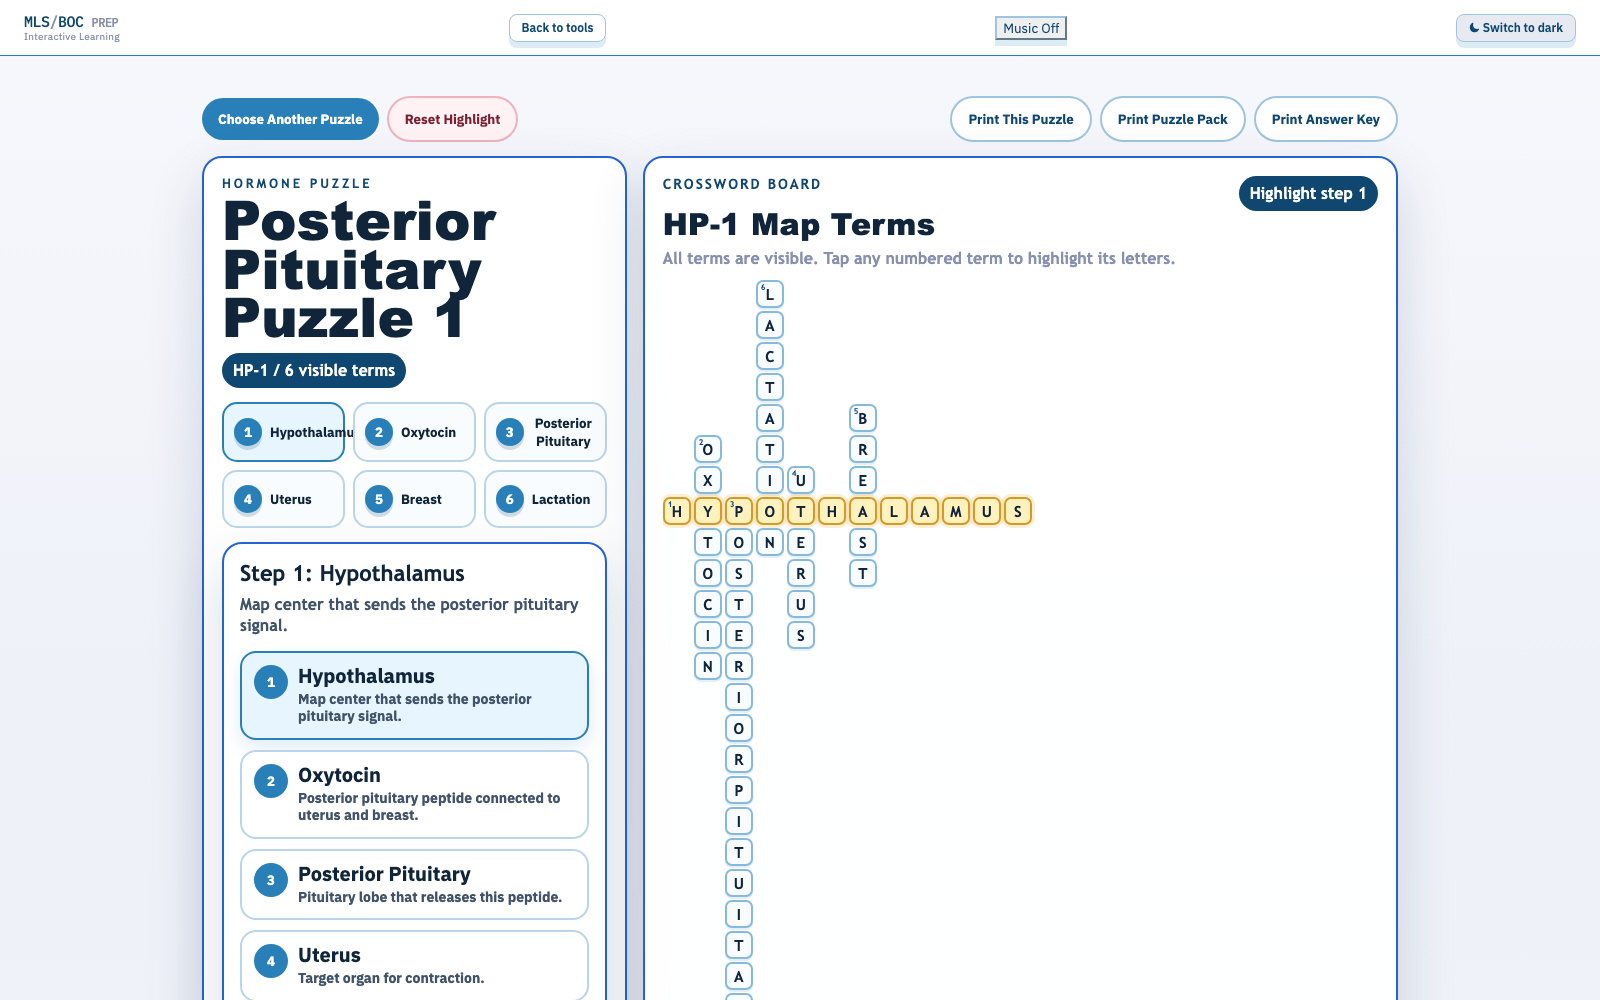
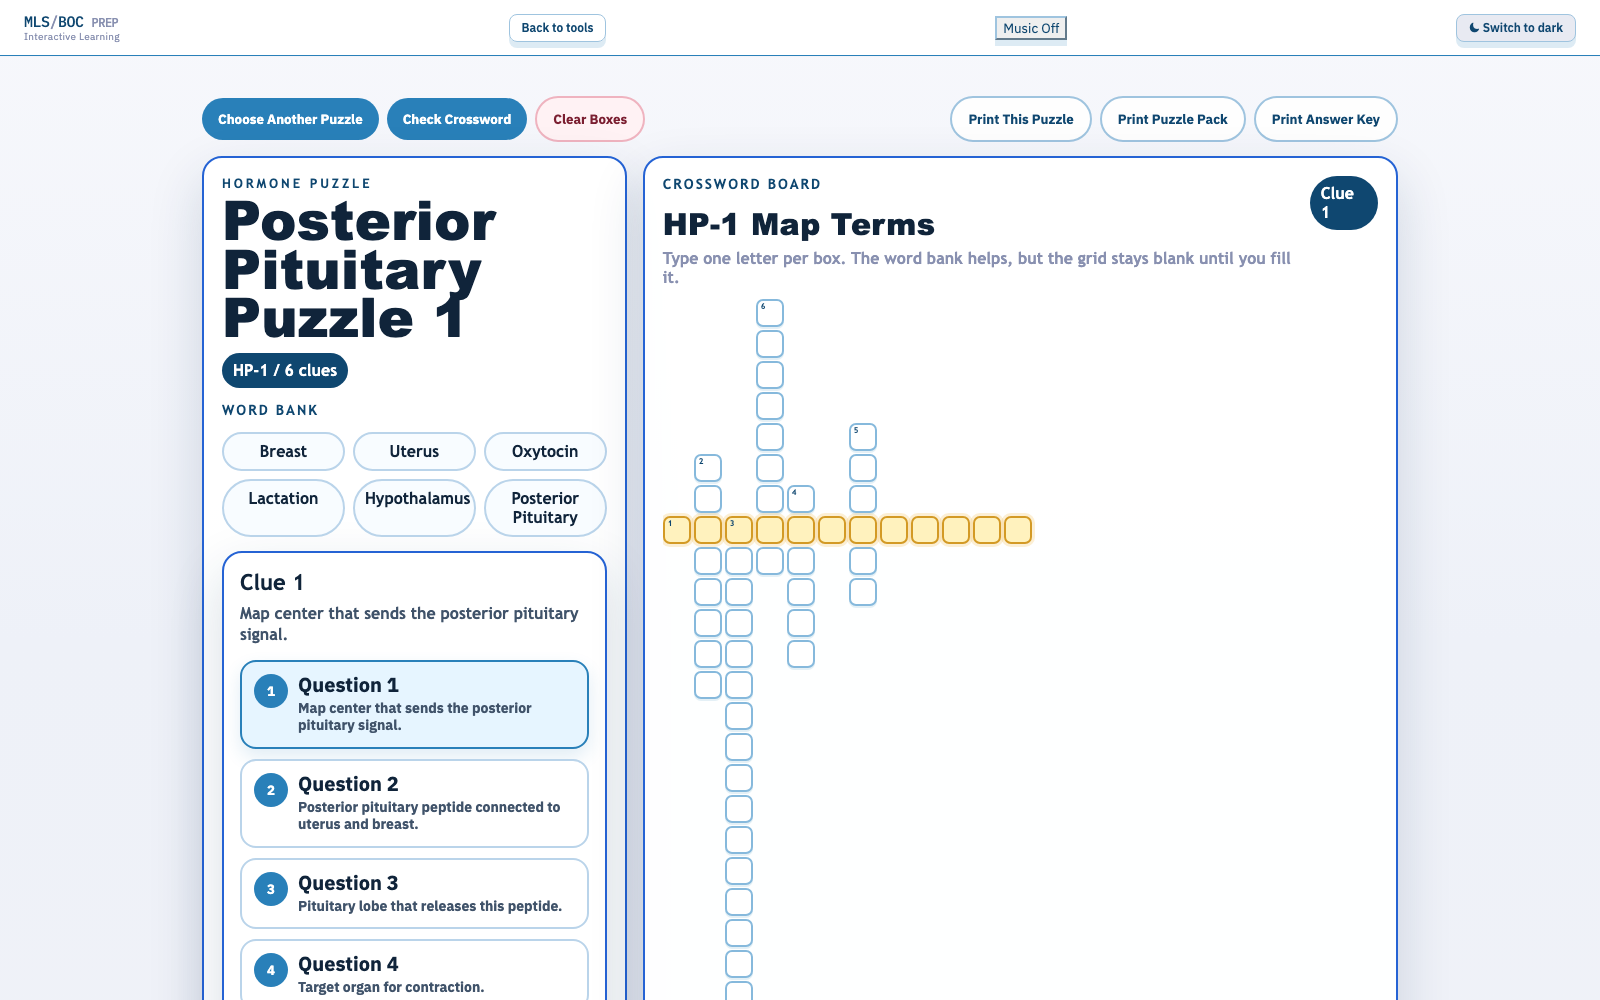
Make hormone crosswords type-in puzzles

diff --git a/Hormone_Game.html b/Hormone_Game.html
@@ -234,36 +234,21 @@ body.hormone-game .mls-audio-btn{
   color:#fff;
   font-weight:1000;
 }
-.pathway-strip{
+.word-bank{
   display:grid;
-  grid-template-columns:repeat(auto-fit,minmax(120px,1fr));
+  grid-template-columns:repeat(auto-fit,minmax(92px,1fr));
   gap:8px;
   margin-top:14px;
 }
-.pathway-step{
+.word-bank-term{
   border:2px solid #bad4ea;
-  border-radius:15px;
+  border-radius:999px;
   background:#f8fcff;
-  padding:10px;
+  padding:8px 10px;
   color:#10243a;
   font-weight:1000;
-  min-height:58px;
-  display:flex;
-  align-items:center;
-  gap:8px;
+  text-align:center;
 }
-.pathway-step strong{
-  width:28px;
-  height:28px;
-  border-radius:50%;
-  display:grid;
-  place-items:center;
-  flex:0 0 auto;
-  color:#fff;
-  background:var(--chem);
-  box-shadow:0 4px 0 rgba(15,71,112,.18);
-}
-.pathway-step.active{border-color:var(--chem);background:#e7f5ff}
 .step-pills{
   display:grid;
   grid-template-columns:repeat(auto-fit,minmax(38px,1fr));
@@ -399,6 +384,7 @@ body.hormone-game .mls-audio-btn{
 }
 .cell.solved{background:#f8fcff;border-color:#86b9dc}
 .cell.active{background:#fff2be;border-color:#d39a25;box-shadow:0 0 0 3px rgba(244,189,79,.24)}
+.cell.wrong{background:#fff1f3;border-color:#d64d5f}
 .cell-number{
   position:absolute;
   top:1px;
@@ -408,6 +394,18 @@ body.hormone-game .mls-audio-btn{
   line-height:1;
 }
 .cell-letter{font-size:15px;line-height:1}
+.cell-input{
+  width:100%;
+  height:100%;
+  border:0;
+  background:transparent;
+  color:#10243a;
+  font:1000 15px/1 "Trebuchet MS",Arial,Helvetica,sans-serif;
+  text-align:center;
+  text-transform:uppercase;
+  outline:0;
+  padding:0;
+}
 .mini-map{
   margin-top:14px;
   display:grid;
@@ -442,6 +440,7 @@ body.hormone-game .mls-audio-btn{
   .answer-row{grid-template-columns:1fr}
   .cell{width:24px;height:24px;border-radius:6px}
   .cell-letter{font-size:13px}
+  .cell-input{font-size:13px}
 }
 html[data-mls-theme="dark"] body.hormone-game{
   background:
@@ -508,7 +507,10 @@ html[data-mls-theme="dark"] body.hormone-game .feedback{
     font-weight:900;
   }
   .print-cell.empty{border-color:transparent}
+  .print-cell.filled{background:#fff}
   .print-cell-number{position:absolute;top:0;left:.02in;font-size:5pt}
+  .print-word-bank{border:1px solid #000;padding:.06in;margin:.08in 0;font-size:9pt;color:#000!important}
+  .print-word-bank strong{display:block;margin-bottom:.03in}
   .print-ordered{width:100%;border-collapse:collapse;font-size:8.5pt;margin-top:.08in}
   .print-ordered th,.print-ordered td{border:1px solid #000;padding:.04in;color:#000!important;vertical-align:top}
   .print-ordered th{font-weight:900}
@@ -696,6 +698,8 @@ let activePuzzleId = scene === "puzzle" ? puzzles[0].id : "";
 let activeEntryIndex = 0;
 let feedback = "Choose a hormone crossword.";
 let feedbackType = "";
+let typedCells = {};
+let checkedPuzzleId = "";
 
 function normalize(value){
   return String(value).replace(/[^a-zA-Z0-9]/g,"").toUpperCase();
@@ -709,6 +713,18 @@ function currentPuzzle(){
   return puzzles.find(puzzle => puzzle.id === activePuzzleId) || puzzles[0];
 }
 
+function typedMap(puzzleId){
+  if(!typedCells[puzzleId])typedCells[puzzleId] = {};
+  return typedCells[puzzleId];
+}
+
+function shuffleTerms(entries){
+  return [...entries]
+    .map((entry, index) => ({entry, sortKey:normalize(entry.term).split("").reduce((sum, ch) => sum + ch.charCodeAt(0), 0) + index * 17}))
+    .sort((a,b) => a.sortKey - b.sortKey)
+    .map(item => item.entry);
+}
+
 function enterHall(){
   scene = "hall";
   feedback = "Choose one crossword line from the hormone map.";
@@ -720,7 +736,8 @@ function openPuzzle(id){
   activePuzzleId = id;
   scene = "puzzle";
   activeEntryIndex = 0;
-  feedback = "Everything is visible. Tap any numbered term to highlight it on the crossword.";
+  checkedPuzzleId = "";
+  feedback = "Use the clue questions and word bank, then type letters into the crossword boxes.";
   feedbackType = "";
   render();
 }
@@ -733,8 +750,10 @@ function backToHall(){
 
 function clearPuzzle(){
   if(!activePuzzleId)return;
+  typedCells[activePuzzleId] = {};
   activeEntryIndex = 0;
-  feedback = "Highlight reset to step 1.";
+  checkedPuzzleId = "";
+  feedback = "Crossword cleared. Type answers into the numbered boxes.";
   feedbackType = "";
   render();
 }
@@ -742,9 +761,57 @@ function clearPuzzle(){
 function selectEntry(index){
   const puzzle = currentPuzzle();
   activeEntryIndex = Math.max(0, Math.min(index, puzzle.entries.length - 1));
-  const entry = puzzle.entries[activeEntryIndex];
-  feedback = `Step ${activeEntryIndex + 1} highlighted: ${entry.term}.`;
+  feedback = `Clue ${activeEntryIndex + 1} highlighted on the crossword.`;
   feedbackType = "";
+  render();
+}
+
+function handleCellInput(event){
+  const input = event.target;
+  const puzzleId = input.dataset.puzzle;
+  const cellId = input.dataset.cell;
+  const value = normalize(input.value).slice(-1);
+  input.value = value;
+  typedMap(puzzleId)[cellId] = value;
+  checkedPuzzleId = "";
+  input.closest(".cell")?.classList.remove("wrong");
+  if(value)focusNextCell(input);
+}
+
+function focusNextCell(input){
+  const cells = [...document.querySelectorAll(".cell-input")];
+  const index = cells.indexOf(input);
+  const next = cells[index + 1];
+  if(next)next.focus();
+}
+
+function handleCellKey(event){
+  if(event.key === "Backspace" && !event.target.value){
+    const cells = [...document.querySelectorAll(".cell-input")];
+    const index = cells.indexOf(event.target);
+    const previous = cells[index - 1];
+    if(previous)previous.focus();
+  }
+}
+
+function checkCrossword(){
+  const puzzle = currentPuzzle();
+  const crossword = makeCrossword(puzzle.entries);
+  const typed = typedMap(puzzle.id);
+  let total = 0;
+  let correct = 0;
+  crossword.cells.forEach((cell, id) => {
+    total++;
+    if((typed[id] || "") === cell.letter)correct++;
+  });
+  checkedPuzzleId = puzzle.id;
+  if(correct === total){
+    feedback = `Crossword complete. Output unlocked: ${puzzle.output}.`;
+    feedbackType = "good";
+  }else{
+    feedback = `${correct}/${total} boxes correct. Fix the highlighted boxes and check again.`;
+    feedbackType = "bad";
+  }
   render();
 }
 
@@ -837,7 +904,7 @@ function renderHero(){
     <div class="hero-panel">
       <div class="eyebrow">Welcome to the endocrine arcade</div>
       <h1 class="game-font">Hormone Crosswords</h1>
-      <p class="hero-copy">Choose one hormone-map line and study its numbered crossword. Every term is visible, so you can build the pathway in any order.</p>
+      <p class="hero-copy">Choose one hormone-map line, use the word bank, and type the missing terms into a real crossword puzzle.</p>
       <button class="game-btn enter-btn" type="button" onclick="enterHall()">Enter the Hormone Puzzle Hall!</button>
     </div>
   </section>`;
@@ -848,7 +915,7 @@ function renderHall(){
     <div class="hero-panel">
       <div class="eyebrow">Choose your hormone puzzle</div>
       <h1 class="game-font">Puzzle Hall</h1>
-      <p class="hero-copy">Each card is one line from the hormone diagram. Pick one, read the numbered pathway, and use the crossword as the visual map.</p>
+      <p class="hero-copy">Each card is one line from the hormone diagram. Pick a puzzle, read the clues, and fill the crossword boxes.</p>
     </div>
   </section>
   <section class="puzzle-grid">
@@ -869,7 +936,8 @@ function renderToolbar(){
   return `<div class="toolbar">
     <div class="toolbar-left">
       <button class="game-btn primary-btn" type="button" onclick="backToHall()">Choose Another Puzzle</button>
-      <button class="game-btn danger-btn" type="button" onclick="clearPuzzle()">Reset Highlight</button>
+      <button class="game-btn primary-btn" type="button" onclick="checkCrossword()">Check Crossword</button>
+      <button class="game-btn danger-btn" type="button" onclick="clearPuzzle()">Clear Boxes</button>
     </div>
     <div class="toolbar-right">
       <button class="game-btn print-btn" type="button" onclick="printCurrentPuzzle()">Print This Puzzle</button>
@@ -879,32 +947,44 @@ function renderToolbar(){
   </div>`;
 }
 
+function isCrosswordComplete(puzzle){
+  const crossword = makeCrossword(puzzle.entries);
+  const typed = typedMap(puzzle.id);
+  let complete = true;
+  crossword.cells.forEach((cell, id) => {
+    if((typed[id] || "") !== cell.letter)complete = false;
+  });
+  return complete;
+}
+
 function renderPuzzleInfo(puzzle){
   const current = Math.max(0, Math.min(activeEntryIndex, puzzle.entries.length - 1));
   const entry = puzzle.entries[current];
+  const complete = isCrosswordComplete(puzzle);
   return `<section class="panel">
     <div class="eyebrow">Hormone puzzle</div>
     <h1 class="game-font puzzle-title">${esc(puzzle.title)}</h1>
-    <span class="map-line">${esc(puzzle.code)} / ${puzzle.entries.length} visible terms</span>
-    <div class="pathway-strip">
-      ${puzzle.entries.map((entryItem, index) => `<button class="pathway-step ${index === current ? "active" : ""}" type="button" onclick="selectEntry(${index})"><strong>${index + 1}</strong><span>${esc(entryItem.term)}</span></button>`).join("")}
+    <span class="map-line">${esc(puzzle.code)} / ${puzzle.entries.length} clues</span>
+    <div class="panel-title" style="margin-top:14px">Word Bank</div>
+    <div class="word-bank">
+      ${shuffleTerms(puzzle.entries).map(entryItem => `<span class="word-bank-term">${esc(entryItem.term)}</span>`).join("")}
     </div>
     <div class="clue-card">
-      <h3>Step ${current + 1}: ${esc(entry.term)}</h3>
+      <h3>Clue ${current + 1}</h3>
       <p>${esc(entry.clue)}</p>
       <div class="ordered-clues">
         ${puzzle.entries.map((entryItem, index) => `<button class="term-step ${index === current ? "active" : ""}" type="button" onclick="selectEntry(${index})">
           <span class="term-step-number">${index + 1}</span>
           <span>
-            <span class="term-step-name">${esc(entryItem.term)}</span>
+            <span class="term-step-name">Question ${index + 1}</span>
             <span class="term-step-clue">${esc(entryItem.clue)}</span>
           </span>
         </button>`).join("")}
       </div>
     </div>
     <div class="feedback ${feedbackType}">${esc(feedback)}</div>
-    <div class="output-card visible">
-      <h3>Output</h3>
+    <div class="output-card ${complete ? "visible" : ""}">
+      <h3>Output Unlocked</h3>
       <p>${esc(puzzle.output)}</p>
     </div>
   </section>`;
@@ -913,28 +993,33 @@ function renderPuzzleInfo(puzzle){
 function renderCrossword(puzzle){
   const crossword = makeCrossword(puzzle.entries);
   const current = Math.max(0, Math.min(activeEntryIndex, puzzle.entries.length - 1));
+  const typed = typedMap(puzzle.id);
+  const showWrong = checkedPuzzleId === puzzle.id && feedbackType === "bad";
   return `<section class="crossword-shell">
     <div class="crossword-head">
       <div>
         <div class="panel-title">Crossword Board</div>
         <h2 class="game-font">${esc(puzzle.code)} Map Terms</h2>
-        <p>All terms are visible. Tap any numbered term to highlight its letters.</p>
+        <p>Type one letter per box. The word bank helps, but the grid stays blank until you fill it.</p>
       </div>
-      <span class="map-line">Highlight step ${current + 1}</span>
+      <span class="map-line">Clue ${current + 1}</span>
     </div>
     <div class="crossword-board-wrap">
       <div class="crossword-board" style="grid-template-columns:repeat(${crossword.cols},28px)">
         ${Array.from({length:crossword.rows * crossword.cols}, (_, rawIndex) => {
           const r = Math.floor(rawIndex / crossword.cols);
           const c = rawIndex % crossword.cols;
-          const cell = crossword.cells.get(`${r},${c}`);
+          const id = `${r},${c}`;
+          const cell = crossword.cells.get(id);
           if(!cell)return `<div class="cell empty" aria-hidden="true"></div>`;
           const cellActive = current !== -1 && cell.entries.includes(current);
           const number = cell.starts.length ? cell.starts[0] : "";
-          return `<div class="cell solved ${cellActive ? "active" : ""}">
+          const value = typed[id] || "";
+          const wrong = showWrong && value && value !== cell.letter;
+          return `<label class="cell ${cellActive ? "active" : ""} ${wrong ? "wrong" : ""}">
             ${number ? `<span class="cell-number">${number}</span>` : ""}
-            <span class="cell-letter">${esc(cell.letter)}</span>
-          </div>`;
+            <input class="cell-input" value="${esc(value)}" maxlength="1" inputmode="text" autocomplete="off" spellcheck="false" data-puzzle="${esc(puzzle.id)}" data-cell="${esc(id)}" oninput="handleCellInput(event)" onkeydown="handleCellKey(event)" aria-label="Crossword box${number ? " " + number : ""}">
+          </label>`;
         }).join("")}
       </div>
     </div>
@@ -954,8 +1039,8 @@ function printCard(puzzle){
   return `<article class="print-card">
     <h3>${esc(puzzle.code)}</h3>
     <h2>${esc(puzzle.title)}</h2>
-    <p><strong>Output:</strong> ${esc(puzzle.output)}</p>
-    <ul>${puzzle.entries.map((entry, index) => `<li><strong>${index + 1}. ${esc(entry.term)}:</strong> ${esc(entry.clue)}</li>`).join("")}</ul>
+    <p><strong>Word bank:</strong> ${esc(shuffleTerms(puzzle.entries).map(entry => entry.term).join(" / "))}</p>
+    <ul>${puzzle.entries.map((entry, index) => `<li><strong>${index + 1}.</strong> ${esc(entry.clue)}</li>`).join("")}</ul>
   </article>`;
 }
 
@@ -990,7 +1075,7 @@ function renderPrintCrossword(puzzle){
       const cell = crossword.cells.get(`${r},${c}`);
       if(!cell)return `<div class="print-cell empty"></div>`;
       const number = cell.starts.length ? cell.starts[0] : "";
-      return `<div class="print-cell">${number ? `<span class="print-cell-number">${number}</span>` : ""}${esc(cell.letter)}</div>`;
+      return `<div class="print-cell filled">${number ? `<span class="print-cell-number">${number}</span>` : ""}</div>`;
     }).join("")}
   </div>`;
 }
@@ -998,11 +1083,12 @@ function renderPrintCrossword(puzzle){
 function renderPrintPuzzle(puzzle){
   return `<section class="print-page">
     <h1 class="print-title">${esc(puzzle.code)} - ${esc(puzzle.title)}</h1>
-    <p class="print-note">Hormone Crosswords. Numbers show pathway order. Output: ${esc(puzzle.output)}</p>
+    <p class="print-note">Hormone Crosswords. Fill the blank grid using the clue questions and word bank.</p>
     ${renderPrintCrossword(puzzle)}
+    <div class="print-word-bank"><strong>Word Bank</strong>${esc(shuffleTerms(puzzle.entries).map(entry => entry.term).join(" / "))}</div>
     <table class="print-ordered">
-      <thead><tr><th>#</th><th>Term</th><th>Clue</th></tr></thead>
-      <tbody>${puzzle.entries.map((entry, index) => `<tr><td>${index + 1}</td><td>${esc(entry.term)}</td><td>${esc(entry.clue)}</td></tr>`).join("")}</tbody>
+      <thead><tr><th>#</th><th>Question</th></tr></thead>
+      <tbody>${puzzle.entries.map((entry, index) => `<tr><td>${index + 1}</td><td>${esc(entry.clue)}</td></tr>`).join("")}</tbody>
     </table>
   </section>`;
 }
@@ -1028,12 +1114,15 @@ window.openPuzzle = openPuzzle;
 window.backToHall = backToHall;
 window.clearPuzzle = clearPuzzle;
 window.selectEntry = selectEntry;
+window.handleCellInput = handleCellInput;
+window.handleCellKey = handleCellKey;
+window.checkCrossword = checkCrossword;
 window.printGamePack = printGamePack;
 window.printAnswerKey = printAnswerKey;
 window.printCurrentPuzzle = printCurrentPuzzle;
 
 if(scene === "puzzle"){
-  feedback = "Everything is visible. Tap any numbered term to highlight it on the crossword.";
+  feedback = "Use the clue questions and word bank, then type letters into the crossword boxes.";
 }
 render();
 </script>

diff --git a/index.html b/index.html
@@ -1247,7 +1247,7 @@ const BUILT_IN_INTERACTIVE_LINKS=[
   {title:'UA Case Game',url:'UA_Renal_Case_Files.html',description:'Mystery-style UA pattern game with diagnosis tokens',topic:'Urinalysis',icon:'🔎',color:'#c8a800',image_url:'assets/interactive-previews/ua_case_game_icon.svg',preview_url:'assets/interactive-previews/ua_case_game_mystery.png?v=20260605-1'},
   {title:'Urine Color & Clarity',url:'Urine_Color_and_Clarity.html',description:'Match urine appearance to causes and findings',topic:'Urinalysis',icon:'UC',color:'#c8a800',preview_url:'assets/interactive-previews/urine_color_clarity.png'},
   {title:'Urinary System Labeling',url:'urinary_labeling.html',description:'Label renal and urinary anatomy',topic:'Urinalysis',icon:'RN',color:'#c8a800',preview_url:'assets/interactive-previews/urinary_system_labeling.png'},
-  {title:'Hormone Crosswords',url:'Hormone_Game.html',description:'Study numbered hormone-map crossword puzzles',topic:'Chemistry',icon:'HC',color:'#2980b9',preview_url:'assets/interactive-previews/hormone_game.png?v=20260605-7'},
+  {title:'Hormone Crosswords',url:'Hormone_Game.html',description:'Type hormone-map crossword answers with a word bank',topic:'Chemistry',icon:'HC',color:'#2980b9',preview_url:'assets/interactive-previews/hormone_game.png?v=20260605-8'},
   {title:'Thyroid Lab Findings',url:'Thyroid_Label.html',description:'Drag thyroid hormones into the interpretation table',topic:'Chemistry',icon:'TH',color:'#2980b9',preview_url:'assets/interactive-previews/thyroid_lab_findings.png'},
   {title:'Parathyroid & Hypercalcemia',url:'Para_Thyroid_Label.html',description:'Match PTH, calcium and hypercalcemia findings',topic:'Chemistry',icon:'PT',color:'#2980b9',preview_url:'assets/interactive-previews/parathyroid_hypercalcemia.png'},
   {title:'Mystery Micronutrient Game',url:'Metal_Vitamin_Shop.html',description:'Read clue cards and identify metal or vitamin tokens',topic:'Chemistry',icon:'MV',color:'#2980b9',preview_url:'assets/interactive-previews/metal_vitamin_shop.svg'},